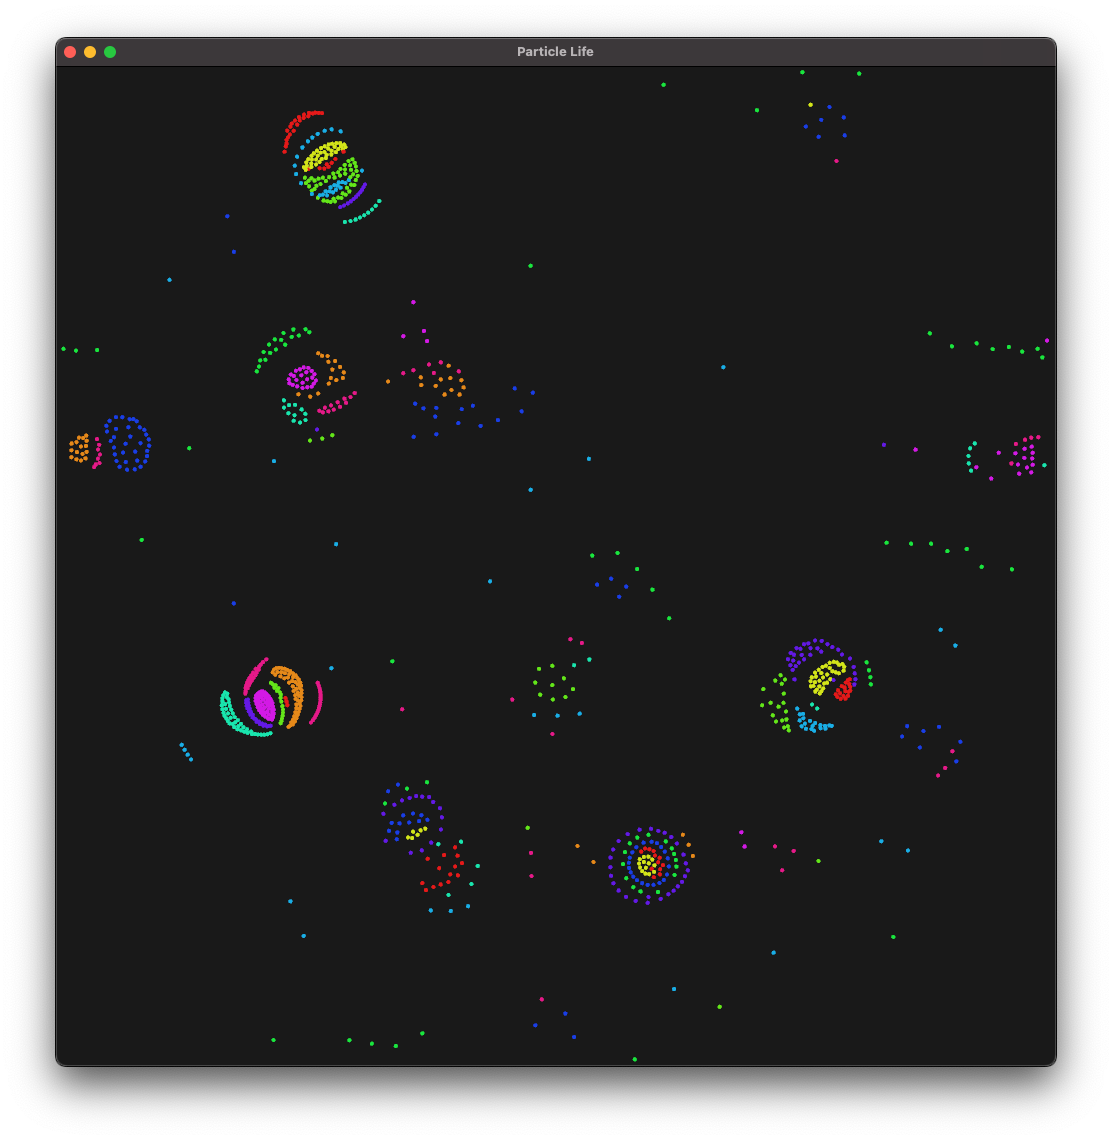
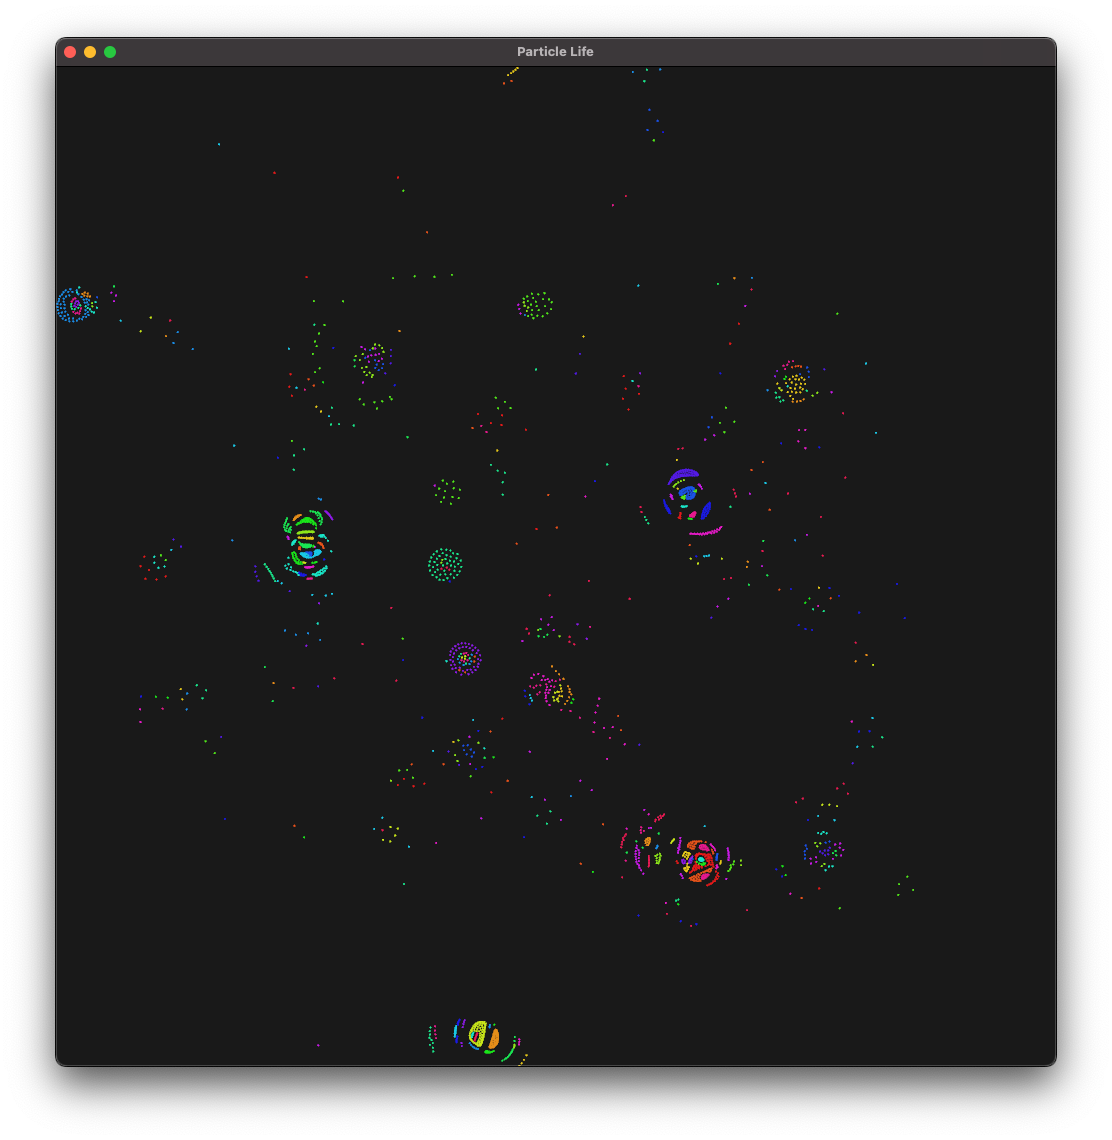
Improved screenshot

diff --git a/src/systems.rs b/src/systems.rs
@@ -2,6 +2,7 @@ use super::*;
 use bevy::{math::Vec3Swizzles, prelude::*, sprite::MaterialMesh2dBundle, window::PrimaryWindow};
 use ndarray::prelude::*;
 use rand::prelude::*;
+use std::f32::consts::PI;
 
 pub fn spawn_camera(mut commands: Commands, query: Query<&Window, With<PrimaryWindow>>) {
     let windows = query.get_single().unwrap();
@@ -30,6 +31,42 @@ pub fn spawn_particles(
         let y = (random::<f32>() + 0.5) * (height * f);
 
         let species = Species(random::<u8>() % TOTAL_SPECIES as u8);
+        let colour = species.colour();
+
+        commands.spawn((
+            species,
+            Velocity(Vec2::new(0.0, 0.0)),
+            MaterialMesh2dBundle {
+                mesh: meshes
+                    .add(shape::Circle::new(PARTICLE_RADIUS).into())
+                    .into(),
+                material: materials.add(ColorMaterial::from(colour)),
+                transform: Transform::from_translation(Vec3::new(x, y, -(i as f32))),
+                ..default()
+            },
+        ));
+    }
+}
+
+pub fn spawn_particles_circle(
+    mut commands: Commands,
+    query: Query<&Window, With<PrimaryWindow>>,
+    mut meshes: ResMut<Assets<Mesh>>,
+    mut materials: ResMut<Assets<ColorMaterial>>,
+) {
+    let windows = query.get_single().unwrap();
+    let width = windows.width();
+    let height = windows.height();
+
+    let d_theta = 2.0 * PI / TOTAL_SPECIES as f32;
+    let f = 0.1;
+    for i in 0..TOTAL_PARTICLES {
+        let theta = random::<f32>() * 2.0 * PI;
+
+        let x = (theta.cos() * width * f) + (width * 0.5);
+        let y = (theta.sin() * height * f) + (height * 0.5);
+
+        let species = Species((theta / d_theta) as u8);
         let colour = species.colour();
 
         commands.spawn((

diff --git a/src/plugins.rs b/src/plugins.rs
@@ -9,10 +9,10 @@ impl Plugin for SimulationPlugin {
             .insert_resource(AttractionMatrix::random())
             .add_startup_system(spawn_camera)
             .add_startup_system(spawn_particles)
-            // .add_systems((update_velocities, update_positions).chain())
-            .add_systems((update_velocities_with_grid, update_positions).chain())
+            .add_startup_system(spawn_particles_circle)
+            .add_systems((update_velocities, update_positions).chain())
+            // .add_systems((update_velocities_with_grid, update_positions).chain())
             .add_system(confine_particles_by_wrap)
-            // .add_system(restrain_particles)
             .add_system(close_on_esc);
     }
 }

diff --git a/src/settings.rs b/src/settings.rs
@@ -2,16 +2,14 @@ use bevy::prelude::*;
 
 pub const INIT_WINDOW_WIDTH: f32 = 1000.0;
 pub const INIT_WINDOW_HEIGHT: f32 = 1000.0;
-// pub const INIT_WINDOW_WIDTH: f32 = 1125.0 * 0.5;
-// pub const INIT_WINDOW_HEIGHT: f32 = 2456.0 * 0.5;
 pub const WINDOW_CLEAR_COLOUR: Color = Color::rgb(0.1, 0.1, 0.1);
 
-pub const TOTAL_SPECIES: usize = 11;
+pub const TOTAL_SPECIES: usize = 21;
 
 pub const TOTAL_PARTICLES: usize = 1000;
-pub const PARTICLE_RADIUS: f32 = 2.0;
-pub const PARTICLE_MASS: f32 = 0.5;
+pub const PARTICLE_RADIUS: f32 = 1.0;
+pub const PARTICLE_MASS: f32 = 1.0;
 
 pub const FRICTION_HALF_LIFE: f32 = 0.04;
-pub const R_MAX: f32 = 100.0;
+pub const R_MAX: f32 = 50.0;
 pub const BETA: f32 = 0.3;
